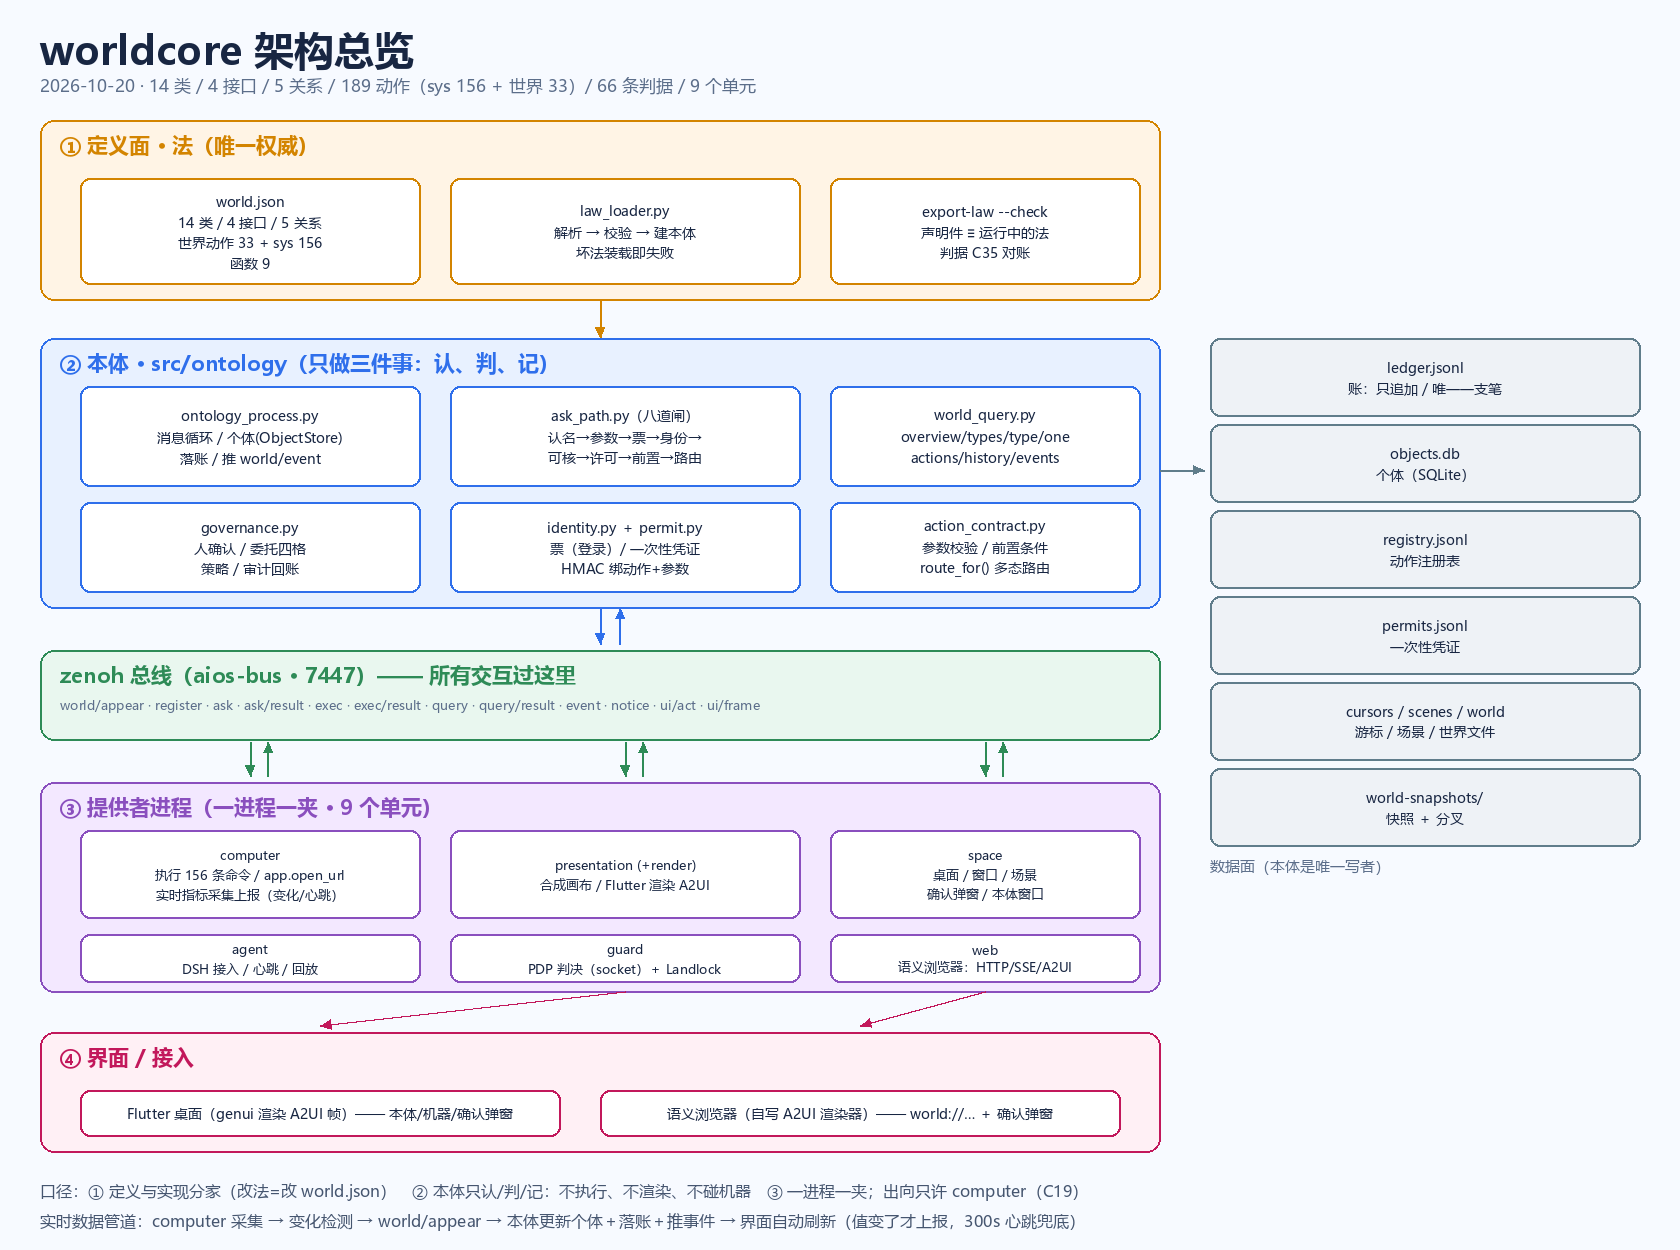
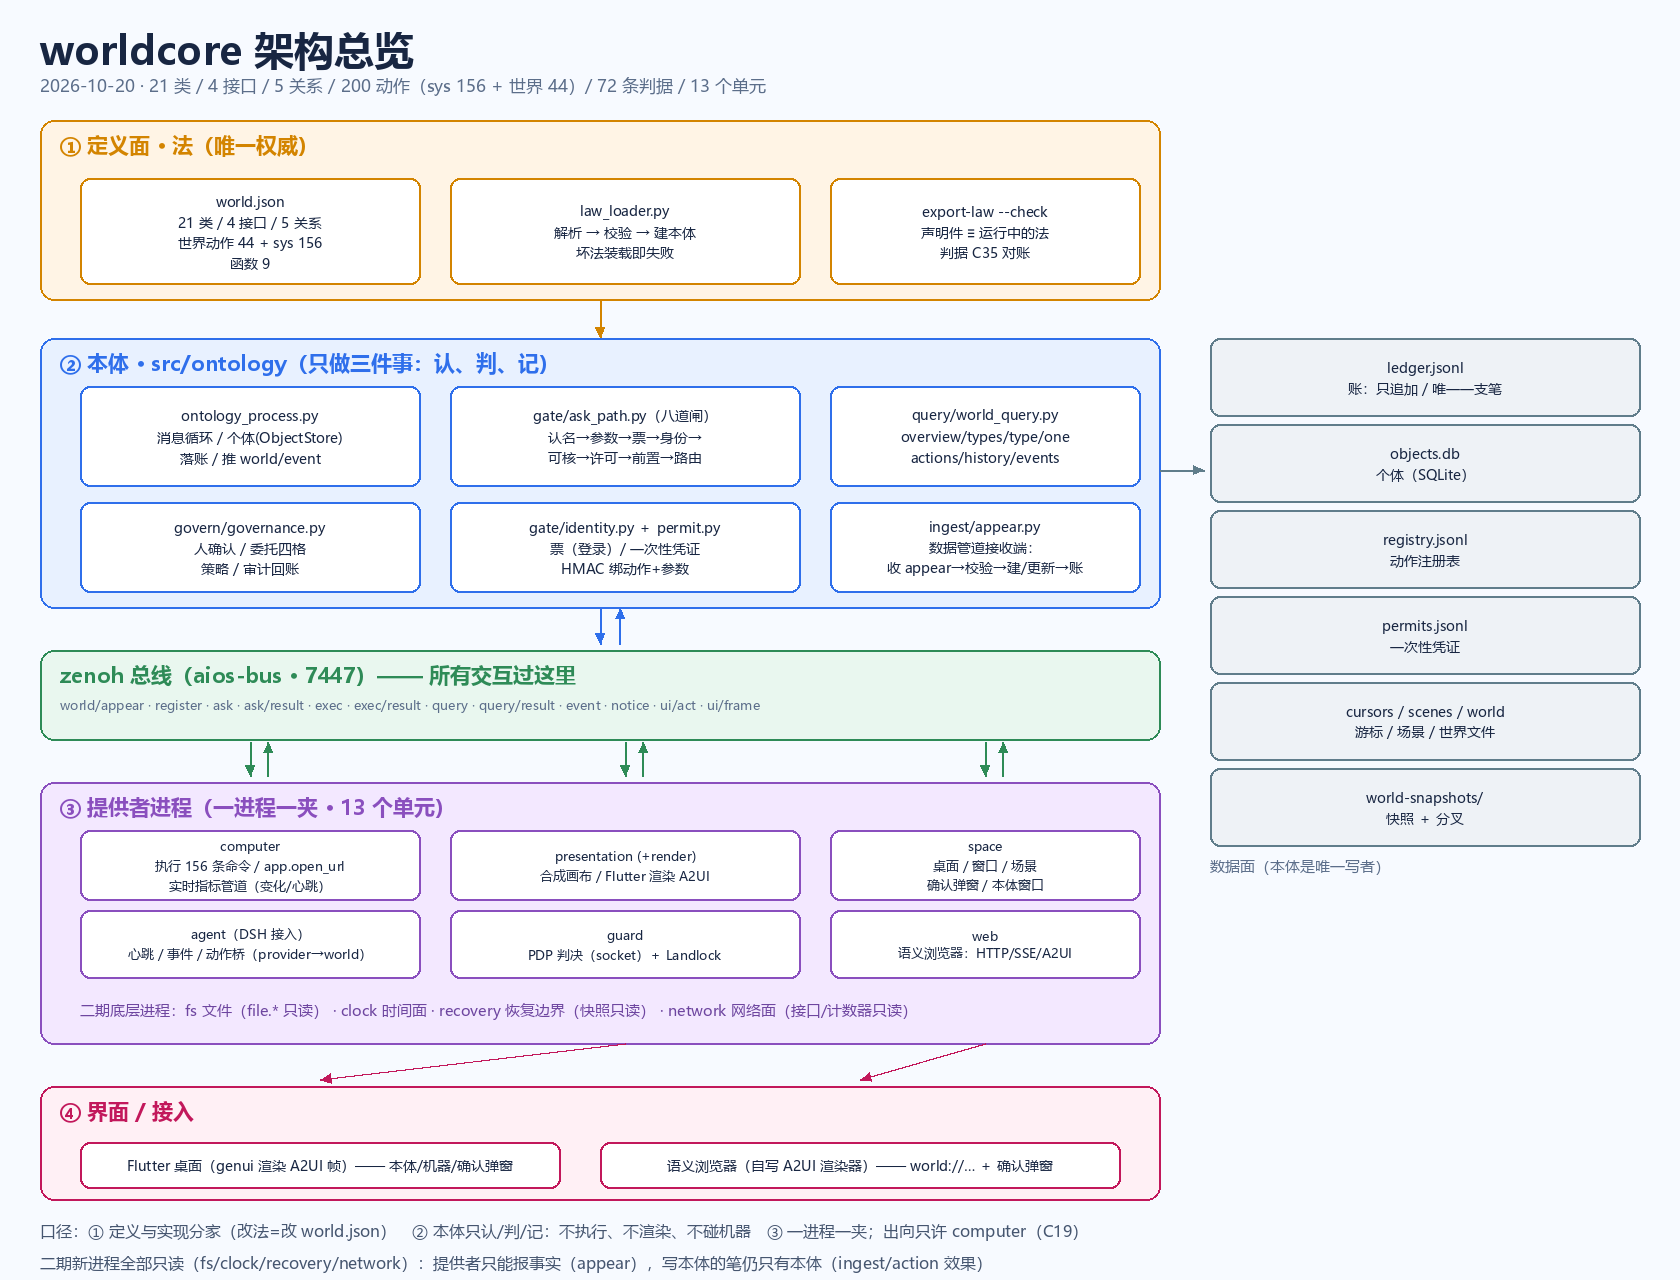
T-496 架构图v3(13单元+二期四进程)(只管13仓):重画docs/architecture.png 1680x1280:21类/4接口/5关系/200动作/72判据/13单元;本体层补ingest/appear数据管道接收端;提供者层加二期底层进程fs文件(file.*只读)/clock时间面/recovery恢复边界/network网络面;底部口径加二期新进程全部只读提供者只能报事实写本体笔仍只有本体;72条门禁全绿

Changed region(s): [[0.031, 0.0312, 0.681, 0.9984], [0.7119, 0.2496, 0.9905, 0.7176]]

diff --git a/ninedim/06-变更/2026-10-13-aios-semantic-plane/改动对照.md b/ninedim/06-变更/2026-10-13-aios-semantic-plane/改动对照.md
@@ -11753,3 +11753,12 @@ PASS 账里有 network.list 成功记录：3 行
 |---|---|
 | 新 | `scripts/release/evidence/t495-network-live-test.txt`（本地） |
 | 改 | `docs/ARCHITECTURE.md`、`docs/CODE-MAP.md`、`docs/process-candidates.md`、`src/agent/agent_llm.py` |
+
+---
+
+## §二百七十二 本笔（T-496：**架构图 v3（13 单元 + 二期四进程）**，2026-10-20 深夜）
+
+- `docs/architecture.png` 重画：1680×1280；21 类 / 4 接口 / 5 关系 / 200 动作 / 72 判据 / **13 单元**；
+- 本体层补 `ingest/appear.py`（数据管道接收端）；
+- 提供者层加一行「二期底层进程：fs 文件（file.* 只读）· clock 时间面 · recovery 恢复边界 · network 网络面」；
+- 底部口径加一句「二期新进程全部只读（fs/clock/recovery/network）：提供者只能报事实，写本体的笔仍只有本体」。
